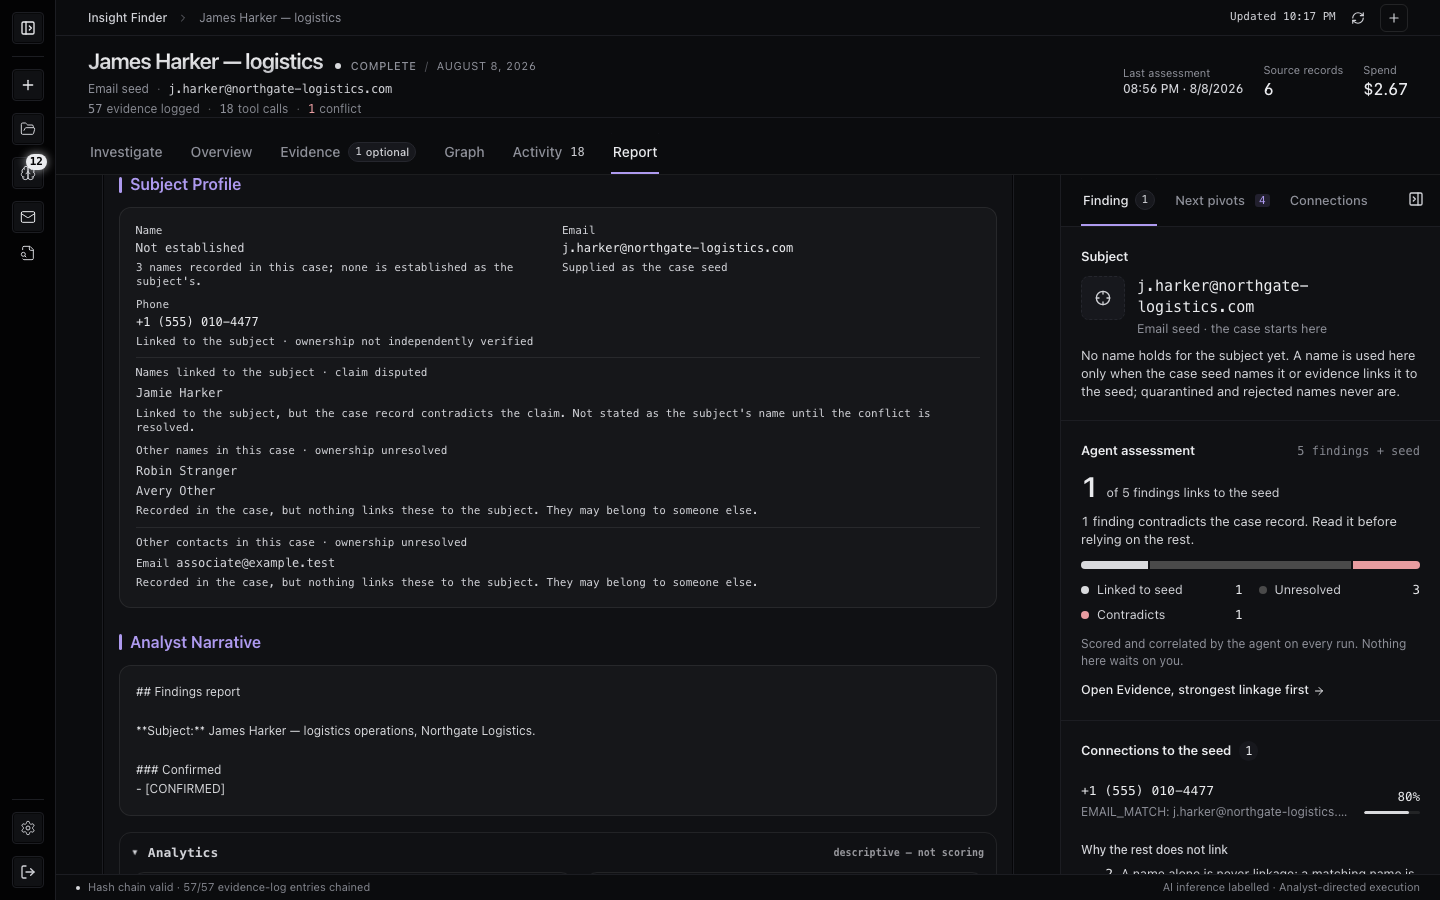
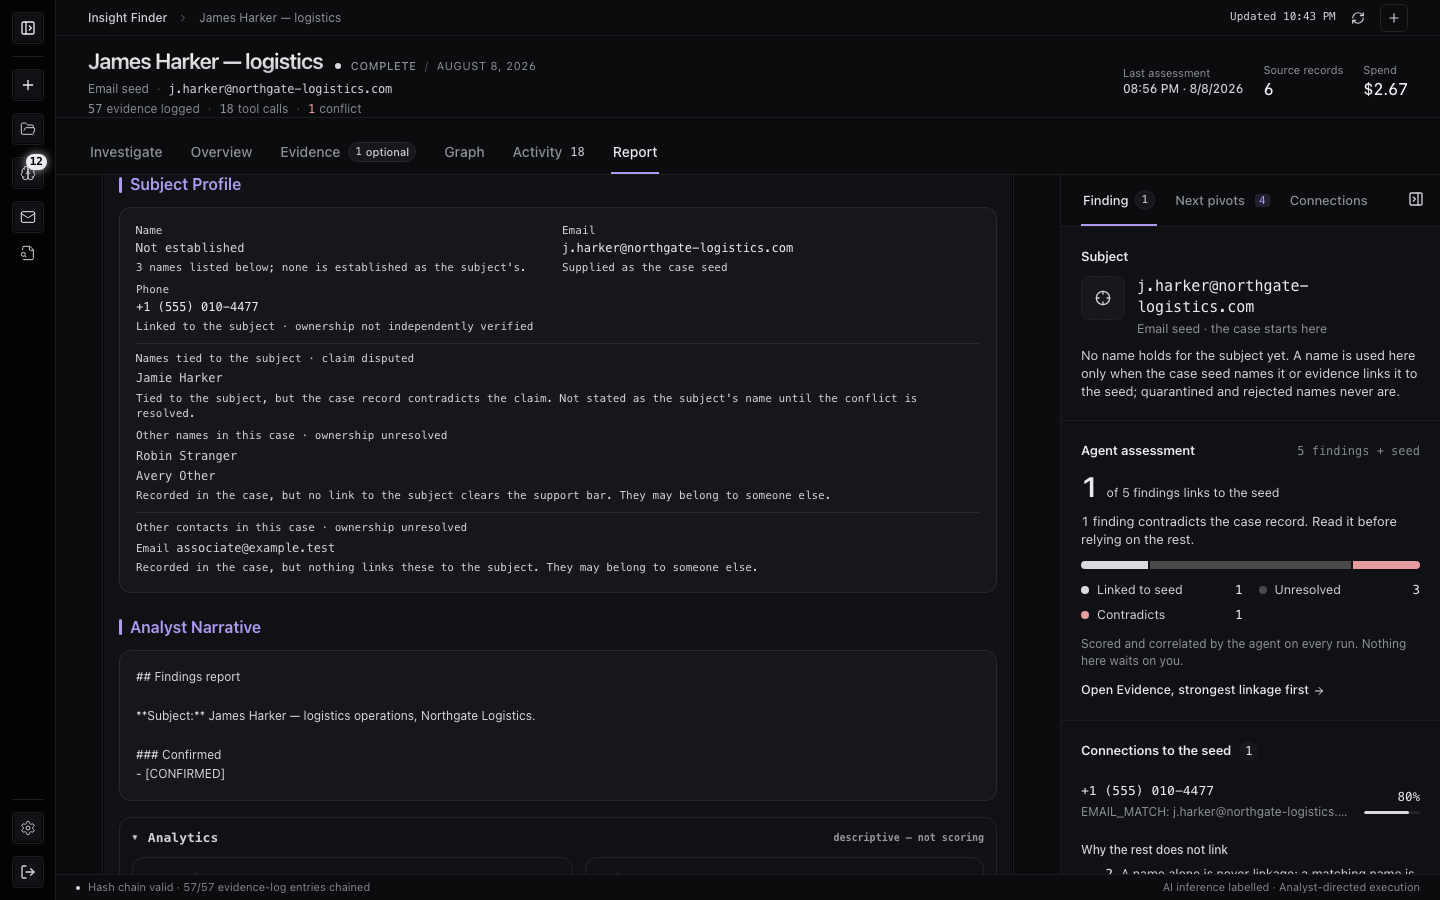
fix(report): the seed names a person only by its words together and in order
Review of #1032. v2 turned the seed-name match from a restriction into an
assertion, so its looseness now matters:
- a bag-of-words match let a name assembled from scattered seed words (a street
  plus the surname) be named in the seed; the words must be together, in order
- two different names the seed names were settled by confidence; like two
  linked names, they are not reconciled by score
- a display name that repeats a selector seed (a handle) was asserted as the
  subject's name; it is not a name
- an annotation-only value could be tied to the subject and block the real
  linked name; it is listed, never tied
Two labels reworded to be literally true of the rows beside them.

diff --git a/src/lib/subject-linkage.ts b/src/lib/subject-linkage.ts
@@ -130,8 +130,9 @@ export type SubjectNameReading = {
  *     from a rejected selector; not a "no results" row.
  *  2. A name is tied to the subject on one of two bases:
  *       seed   - the analyst typed it: the row equals the whole seed (`isSeed`),
- *                or every word of it is a whole word of the typed seed
- *                (`seedNameMatcher`);
+ *                or its words appear together and in order in the typed seed
+ *                (`seedNameMatcher`). A name row that merely repeats a selector
+ *                seed (a display name equal to the handle) is not a name;
  *       linked - `profileOwnership` says the row is the subject's by linkage.
  *  3. A tied name whose claim the case record disputes (the assessment's
  *     `conflict` group) is never asserted. Its tie is kept; it is listed apart.
@@ -164,15 +165,22 @@ export function readSubjectName(
   type Name = { standing: ProfileStanding; seedNamed: boolean; wholeSeed: boolean; rows: Array<{ row: Artifact; standing: ProfileStanding }> };
   const names = new Map<string, Name>();
   let seedNamesPerson = false;
+  // A selector seed (a handle, an email) that some non-name row repeats. A NAME
+  // row that equals it is a display name echoing the handle, not a person's name.
+  const selectorSeed = artifacts.some(
+    (a) => !NAME_KINDS.has(String(a.kind ?? "").toLowerCase()) && assessment.byId[a.id]?.isSeed === true,
+  );
   for (const a of artifacts) {
     const kind = String(a.kind ?? "").toLowerCase();
     if (!NAME_KINDS.has(kind)) continue;
     const value = String(a.value ?? "");
     const assessed = assessment.byId[a.id];
-    const wholeSeed = assessed?.isSeed === true;
+    const canon = canonical(kind, value);
+    const echo = assessed?.isSeed === true && selectorSeed;
+    const wholeSeed = assessed?.isSeed === true && !echo;
     // Compare the canonical name, as the grouping below does: "Sam Example (age
     // 41)" is the name "Sam Example", and the annotation's words are not in the seed.
-    const seedNamed = wholeSeed || namedInSeed(canonical(kind, value) || value);
+    const seedNamed = wholeSeed || namedInSeed(canon || value);
     // Read from EVERY name row, eligible or not: a seed whose own name sits in
     // quarantine still names that person, and nobody else takes the place.
     if (seedNamed) seedNamesPerson = true;
@@ -180,11 +188,16 @@ export function readSubjectName(
     // `canonical` strips a trailing parenthetical, so a value that is ONLY an
     // annotation ("(redacted)") has no canonical form. It is still a row in the
     // case: key it by its own text so it is listed, never silently dropped.
-    const key = (canonical(kind, value) || value.trim().toLowerCase()).replace(/\s+/g, " ");
+    const key = (canon || value.trim().toLowerCase()).replace(/\s+/g, " ");
     if (!key) continue;
-    const standing: ProfileStanding = seedNamed
-      ? (assessed?.group === "conflict" ? "disputed" : "subject")
-      : profileStanding(assessed);
+    // An annotation-only value and a handle echo are rows in the case, never a
+    // name tied to the subject: listed as unresolved, never asserted, and never
+    // counted against the real linked name.
+    const standing: ProfileStanding = !canon || echo
+      ? "unresolved"
+      : seedNamed
+        ? (assessed?.group === "conflict" ? "disputed" : "subject")
+        : profileStanding(assessed);
     const name = names.get(key) ?? { standing: "unresolved" as ProfileStanding, seedNamed: false, wholeSeed: false, rows: [] };
     // One disputed row disputes the name; otherwise one tied row ties it.
     if (standing === "disputed" || (standing === "subject" && name.standing === "unresolved")) name.standing = standing;
@@ -201,13 +214,17 @@ export function readSubjectName(
   const all = Array.from(names.values());
   const tied = all.filter((n) => n.standing === "subject");
   const seedNamed = tied.filter((n) => n.seedNamed).sort((a, b) => Number(b.wholeSeed) - Number(a.wholeSeed) || byName(a, b));
+  // Every name the seed ties to the subject, disputed ones included.
+  const seedNamedAll = all.filter((n) => n.seedNamed && n.standing !== "unresolved");
   const linkedOnly = tied.filter((n) => !n.seedNamed);
   // Every name the linkage ties to the subject, disputed ones included.
   const linkedByOwnership = all.filter((n) => !n.seedNamed && n.standing !== "unresolved").length;
 
   let asserted: Name | null = null;
   let basis: SubjectNameBasis | null = null;
-  if (seedNamed.length > 0) {
+  // The whole seed is the analyst's own subject. Otherwise one name the seed
+  // names is asserted; two are not reconciled by score, like two linked names.
+  if (seedNamed.length > 0 && (seedNamed[0].wholeSeed || seedNamedAll.length === 1)) {
     asserted = seedNamed[0];
     basis = "seed";
   } else if (!seedNamesPerson && linkedOnly.length === 1 && linkedByOwnership === 1) {

diff --git a/src/test/case-report-subject-profile-name.test.tsx b/src/test/case-report-subject-profile-name.test.tsx
@@ -447,7 +447,42 @@ describe("CaseReport Subject Profile Name requires positive subject linkage (aud
     ];
     const c = renderCase(rows, { seed: "Alex Example", seedType: "name" });
     expect(profileCell(c, "Name")).toBe("Alex ExampleSupplied as the case seed");
-    expect(group(c, "linked")).toContain("Example Alex");
+    // The seed's words in another order are not the name the seed names.
+    expect(group(c, "unresolved")).toContain("Example Alex");
+  });
+
+  it("a name assembled from scattered seed words is not named in the seed", () => {
+    // "Lee" is the street, "Example" the surname: a household member's name.
+    const rows = [art({ id: "typed", value: "Sam Example", confidence: 50 }), art({ id: "relative", value: "Lee Example", confidence: 85 })];
+    const c = renderCase(rows, { seed: "Sam Example, 12 Lee St, Springfield", seedType: "other" });
+    expect((profileCell(c, "Name") ?? "").startsWith("Sam Example")).toBe(true);
+    expect(group(c, "unresolved")).toContain("Lee Example");
+  });
+
+  it("two different names the seed names are not reconciled by score", () => {
+    const rows = [art({ id: "a", value: "Sam Example", confidence: 50 }), art({ id: "b", value: "Alex Other", confidence: 90 })];
+    const c = renderCase(rows, { seed: "Sam Example and Alex Other", seedType: "other" });
+    expectNoName(c);
+    expect(group(c, "linked")).toContain("Sam Example");
+    expect(group(c, "linked")).toContain("Alex Other");
+  });
+
+  it("a display name that repeats a handle seed is not the subject's name", () => {
+    const rows = [
+      art({ id: "h", kind: "username", value: "examplehandle77", confidence: 60 }),
+      art({ id: "echo", kind: "name", value: "examplehandle77 (profile display name)", confidence: 70 }),
+      art({ id: "real", kind: "person", value: "Sam Example", confidence: 80, metadata: { username: "examplehandle77", source_category: ["social"] } }),
+    ];
+    const c = renderCase(rows, { seed: "examplehandle77", seedType: "username" });
+    expect(profileCell(c, "Name") ?? "").not.toContain("examplehandle77");
+    expect(group(c, "unresolved")).toContain("examplehandle77");
+  });
+
+  it("an annotation-only name on a linked record is never tied to the subject", () => {
+    const rows = [seedEmail(), linked("anno", "(redacted)", 80), linked("real", "Sam Example", 80)];
+    const c = renderCase(rows);
+    expect((profileCell(c, "Name") ?? "").startsWith("Sam Example")).toBe(true);
+    expect(group(c, "unresolved")).toContain("(redacted)");
   });
 
   it("two equal rows of the linked name: the DOB shown does not depend on arrival order", () => {

diff --git a/src/lib/report-hygiene.ts b/src/lib/report-hygiene.ts
@@ -541,18 +541,9 @@ function nameWords(text: string): string[] {
 }
 
 /**
- * True when every word of `name` (two or more) is a whole word of the seed: the
- * analyst typed this person as the case's subject. Structural, never prose
- * inference; one shared word (a surname) is not enough.
- */
-function seedContainsName(seedWords: ReadonlySet<string>, name: string): boolean {
-  const words = nameWords(name);
-  return words.length >= 2 && words.every((w) => seedWords.has(w));
-}
-
-/**
  * Does the TYPED seed name this person? Returns the test for one name: true when
- * every word of the name (two or more) is a whole word of the seed.
+ * the name's words (two or more) appear in the seed as whole words, together and
+ * in order.
  *
  * Only the words the analyst typed count. An upload-started case stores the
  * "Attached files:" markdown as its seed, and typed text plus an upload stores
@@ -561,9 +552,20 @@ function seedContainsName(seedWords: ReadonlySet<string>, name: string): boolean
  */
 export function seedNameMatcher(seedValue: string | null | undefined): (name: string) => boolean {
   const typed = seedWithoutAttachments(seedValue ?? null);
-  const seedWords = new Set(attachmentOnlyNames(typed) !== null ? [] : nameWords(typed ?? ""));
-  if (seedWords.size < 2) return () => false;
-  return (name) => seedContainsName(seedWords, name);
+  const seq = attachmentOnlyNames(typed) !== null ? [] : nameWords(typed ?? "");
+  if (seq.length < 2) return () => false;
+  // The name's words must appear TOGETHER and IN ORDER. A bag-of-words test let
+  // "Lee Example" pass for a "Sam Example, 12 Lee St" seed: a household member
+  // assembled from the street and the surname. That was harmless while this only
+  // WITHHELD names; it is not once a match asserts one.
+  return (name) => {
+    const words = nameWords(name);
+    if (words.length < 2) return false;
+    for (let i = 0; i + words.length <= seq.length; i++) {
+      if (words.every((w, j) => seq[i + j] === w)) return true;
+    }
+    return false;
+  };
 }
 
 /**

diff --git a/src/components/panel/CaseReport.tsx b/src/components/panel/CaseReport.tsx
@@ -771,18 +771,18 @@ const PROFILE_UNRESOLVED_LIMIT = 8;
 const PROFILE_NAME_GROUPS: ReadonlyArray<Pick<ProfileNameGroup, "key" | "heading" | "footnote">> = [
   {
     key: "linked",
-    heading: "Names linked to the subject · not reconciled",
-    footnote: "Each links to the subject, but nothing settles which is the subject's own name. One may be an alias; one may be another person.",
+    heading: "Names tied to the subject · not reconciled",
+    footnote: "Tied to the subject by the case seed or a shared record, but not reconciled into one name. One may be an alias; one may be another person.",
   },
   {
     key: "disputed",
-    heading: "Names linked to the subject · claim disputed",
-    footnote: "Linked to the subject, but the case record contradicts the claim. Not stated as the subject's name until the conflict is resolved.",
+    heading: "Names tied to the subject · claim disputed",
+    footnote: "Tied to the subject, but the case record contradicts the claim. Not stated as the subject's name until the conflict is resolved.",
   },
   {
     key: "unresolved",
     heading: "Other names in this case · ownership unresolved",
-    footnote: "Recorded in the case, but nothing links these to the subject. They may belong to someone else.",
+    footnote: "Recorded in the case, but no link to the subject clears the support bar. They may belong to someone else.",
   },
 ];
 
@@ -847,7 +847,7 @@ function buildSubjectProfile(
     out.push({
       label: "Name",
       value: "Not established",
-      note: `${otherNames} name${otherNames === 1 ? "" : "s"} recorded in this case; none is established as the subject's.`,
+      note: `${otherNames} name${otherNames === 1 ? "" : "s"} listed below; none is established as the subject's.`,
       unset: true,
     });
   }
